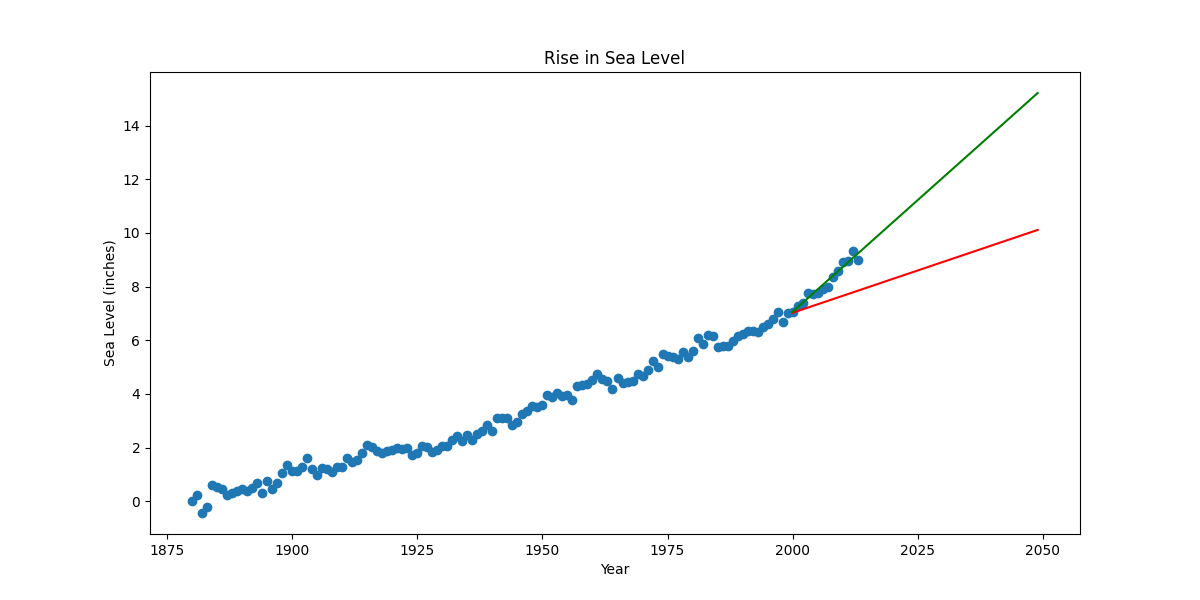
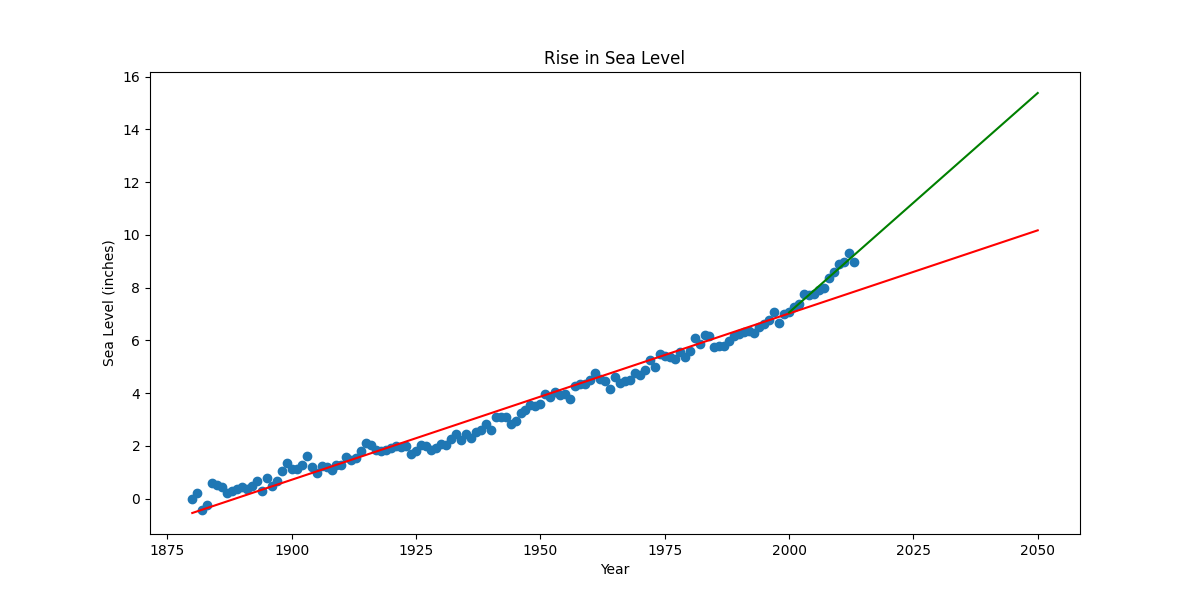
Correção final

diff --git a/sea_level_predictor.py b/sea_level_predictor.py
@@ -12,14 +12,18 @@ def draw_plot():
 
     # Create first line of best fit
     slope, y_intercept, r_value, p_value, std_err = linregress(df['Year'], df['CSIRO Adjusted Sea Level'])
-    new_years = np.arange(2000, 2050)
+    #print("Ponto 1:", slope)
+    new_years = np.arange(1880, 2051)
     sea_new_years = y_intercept + slope * new_years
+    print('P1:', sea_new_years)
     plt.plot(new_years, sea_new_years, label='First line of best fit', color='red')
 
     # Create second line of best fit
     slope, y_intercept, r_value, p_value, std_err = linregress(df[df["Year"] > 1999]['Year'], df[df['Year'] > 1999]['CSIRO Adjusted Sea Level'])
-    new_years = np.arange(2000, 2050)
+    #print('Ponto 2:', slope)
+    new_years = np.arange(2000, 2051)
     sea_new_years = y_intercept + slope * new_years
+    print('P2:', sea_new_years)
     plt.plot(new_years, sea_new_years, label='Second line of best fit', color='green')
 
 
